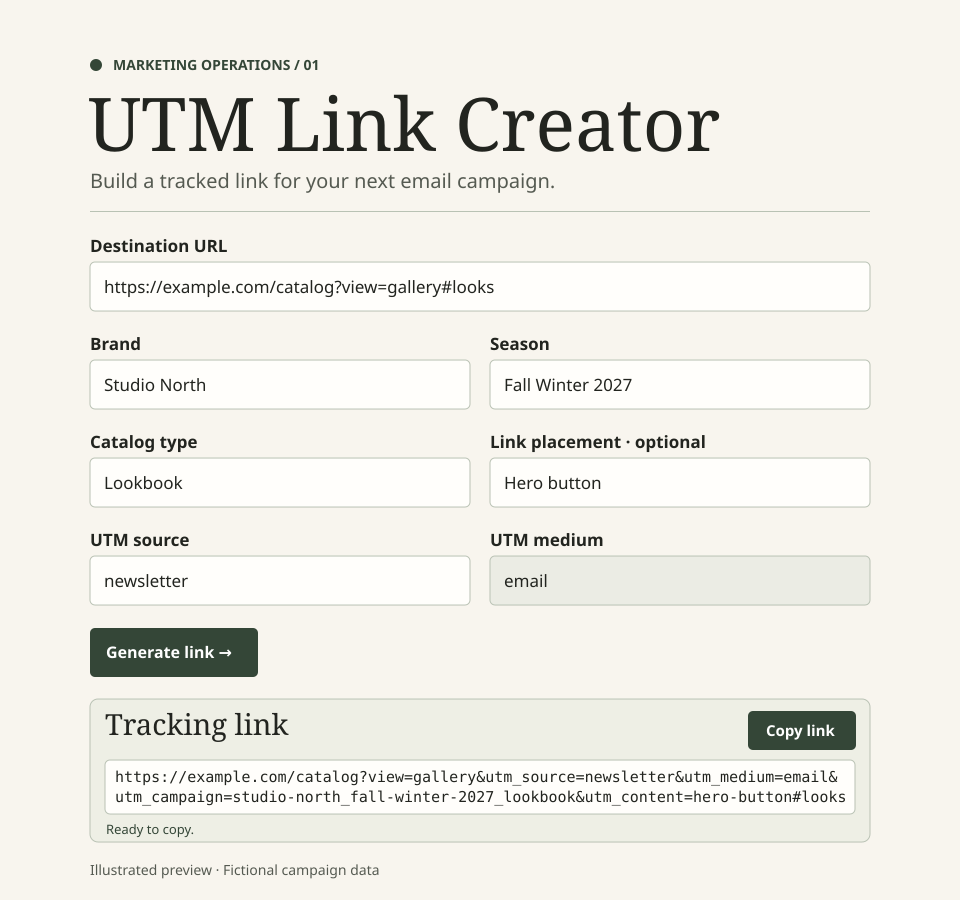
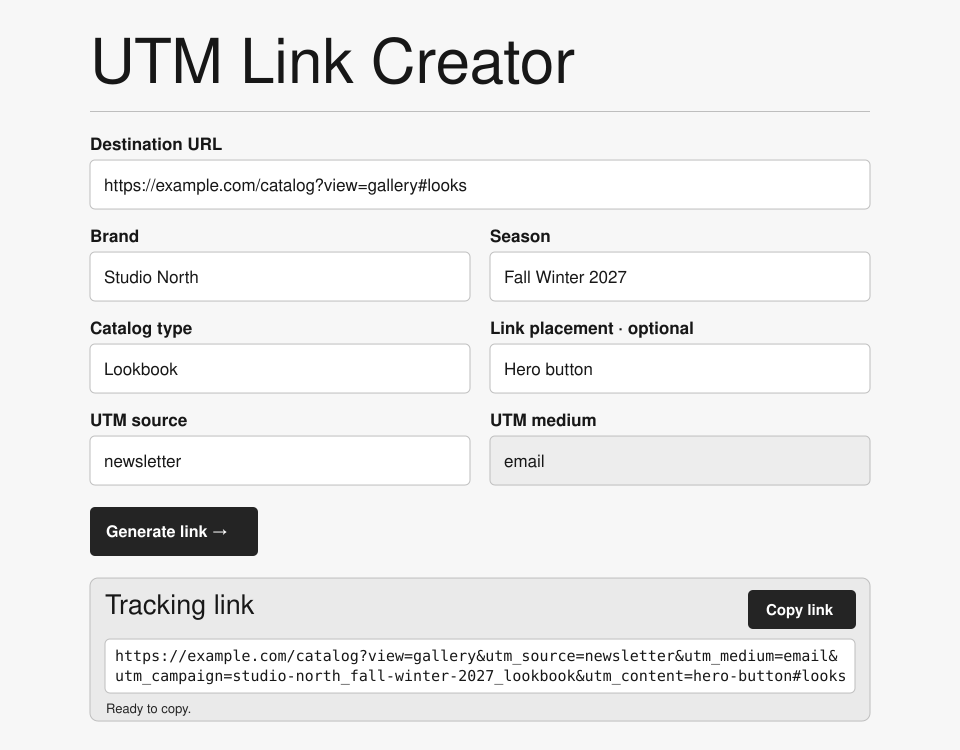
Use a clean gray-and-black design for the UTM builder

diff --git a/styles.css b/styles.css
@@ -1,8 +1,9 @@
-:root{color-scheme:light;--paper:#f8f5ee;--ink:#22241f;--muted:#555a51;--accent:#344637;--line:#b9c2b4}
-*{box-sizing:border-box}body{margin:0;background:var(--paper);color:var(--ink);font:16px/1.45 system-ui,sans-serif}
+:root{color-scheme:light;--paper:#f7f7f7;--ink:#171717;--muted:#505050;--accent:#242424;--line:#bebebe}
+*{box-sizing:border-box}body{margin:0;background:var(--paper);color:var(--ink);font:16px/1.45 Helvetica,Arial,sans-serif}
 main{max-width:760px;margin:auto;padding:clamp(20px,5vw,52px) clamp(16px,4vw,32px)}
 header{border-bottom:1px solid var(--line);padding-bottom:19px;margin-bottom:23px}
-header p:last-child{margin:6px 0 0;color:var(--muted)}.eyebrow{font-size:.71rem;letter-spacing:.17em;text-transform:uppercase;font-weight:750;color:var(--accent);margin:0 0 12px}.eyebrow span{display:inline-block;width:.55rem;height:.55rem;border-radius:50%;background:var(--accent);margin-right:.55rem}
-h1{font:400 clamp(2.7rem,7vw,4.3rem)/.99 Georgia,serif;letter-spacing:-.05em;margin:0}
-form{display:grid;grid-template-columns:repeat(2,minmax(0,1fr));gap:14px 16px}.full{grid-column:1/-1}label{font-size:.85rem;font-weight:700;display:block}label span{font-weight:400;color:var(--muted)}input,textarea{display:block;width:100%;min-width:0;border:1px solid var(--line);border-radius:5px;background:#fffefb;color:var(--ink);font:inherit;padding:10px 11px;margin-top:5px}input::placeholder,textarea::placeholder{color:#65685e}input:read-only{background:#ebece4}button{border:1px solid transparent;background:var(--accent);color:white;font:700 .85rem system-ui,sans-serif;padding:11px 15px;border-radius:5px;min-height:44px;cursor:pointer}button span{margin-left:7px}button:hover:not(:disabled){background:#243526}button:disabled{opacity:.68;cursor:default}:focus-visible{outline:3px solid #2b5c81;outline-offset:2px}.controls{display:flex;align-items:center;gap:12px}.controls p{margin:0;color:#9b2419;font-size:.85rem}.result{border:1px solid var(--line);border-radius:8px;background:#eeefe5;margin-top:21px;padding:14px}.result div{display:flex;justify-content:space-between;align-items:center;gap:10px}.result h2{margin:0;font:400 1.6rem Georgia,serif}.result textarea{font:.85rem/1.4 ui-monospace,monospace;resize:vertical;margin-top:10px}.result p{margin:6px 0 0;color:var(--accent);font-size:.8rem}.result p:empty{display:none}footer{font-size:.75rem;color:var(--muted);margin-top:15px}.sr-only{position:absolute;clip-path:inset(50%);width:1px;height:1px;overflow:hidden;white-space:nowrap}
+
+h1{font:400 clamp(2.7rem,7vw,4.3rem)/1.06 Helvetica,Arial,sans-serif;letter-spacing:-.05em;margin:0}
+form{display:grid;grid-template-columns:repeat(2,minmax(0,1fr));gap:14px 16px}.full{grid-column:1/-1}label{font-size:.85rem;font-weight:700;display:block}label span{font-weight:400;color:var(--muted)}input,textarea{display:block;width:100%;min-width:0;border:1px solid var(--line);border-radius:5px;background:#ffffff;color:var(--ink);font:inherit;padding:10px 11px;margin-top:5px}input::placeholder,textarea::placeholder{color:#636363}input:read-only{background:#ededed}button{border:1px solid transparent;background:var(--accent);color:white;font:700 .85rem Helvetica,Arial,sans-serif;padding:11px 15px;border-radius:5px;min-height:44px;cursor:pointer}button span{margin-left:7px}button:hover:not(:disabled){background:#090909}button:disabled{opacity:.68;cursor:default}:focus-visible{outline:3px solid #363636;outline-offset:2px}.controls{display:flex;align-items:center;gap:12px}.controls p{margin:0;color:#303030;font-size:.85rem}.result{border:1px solid var(--line);border-radius:8px;background:#eaeaea;margin-top:21px;padding:14px}.result div{display:flex;justify-content:space-between;align-items:center;gap:10px}.result h2{margin:0;font:400 1.6rem Helvetica,Arial,sans-serif}.result textarea{font:.85rem/1.4 ui-monospace,monospace;resize:vertical;margin-top:10px}.result p{margin:6px 0 0;color:var(--accent);font-size:.8rem}.result p:empty{display:none}footer{font-size:.75rem;color:var(--muted);margin-top:15px}.sr-only{position:absolute;clip-path:inset(50%);width:1px;height:1px;overflow:hidden;white-space:nowrap}
 @media(max-width:450px){form{gap:12px}.full{grid-column:1/-1}.controls{align-items:flex-start;flex-direction:column}.result h2{font-size:1.4rem}}
+

diff --git a/index.html b/index.html
@@ -3,10 +3,10 @@
 <head>
 <meta charset="utf-8"><meta name="viewport" content="width=device-width,initial-scale=1">
 <meta name="description" content="Create consistent tracking links for email campaigns.">
-<title>UTM Link Creator</title><link rel="stylesheet" href="styles.css">
+<title>UTM Link Creator</title><link rel="stylesheet" href="styles.css?v=2">
 </head>
 <body><main>
-<header><p class="eyebrow"><span></span> Marketing operations / 01</p><h1>UTM Link Creator</h1><p>Build a tracked link for your next email campaign.</p></header>
+<header><h1>UTM Link Creator</h1></header>
 <form id="builder">
 <label class="full">Destination URL<input name="destination" type="url" placeholder="https://example.com/catalog" required></label>
 <label>Brand<input name="brand" placeholder="Studio North" required></label>
@@ -25,3 +25,4 @@
 <footer>Runs entirely in your browser. No links are stored or sent.</footer>
 </main><script src="app.js?v=2"></script></body>
 </html>
+
